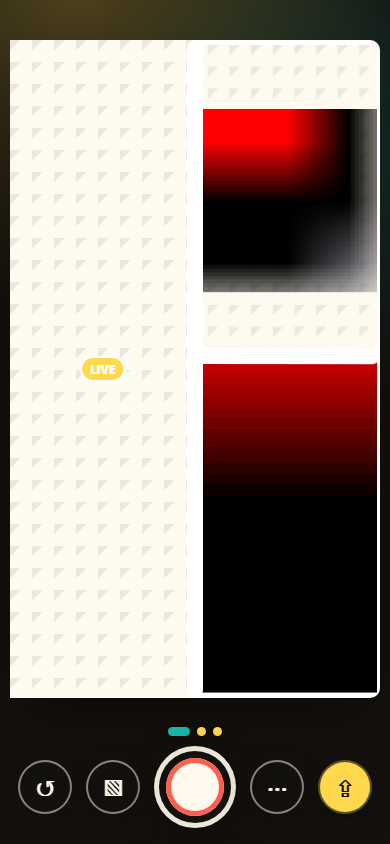
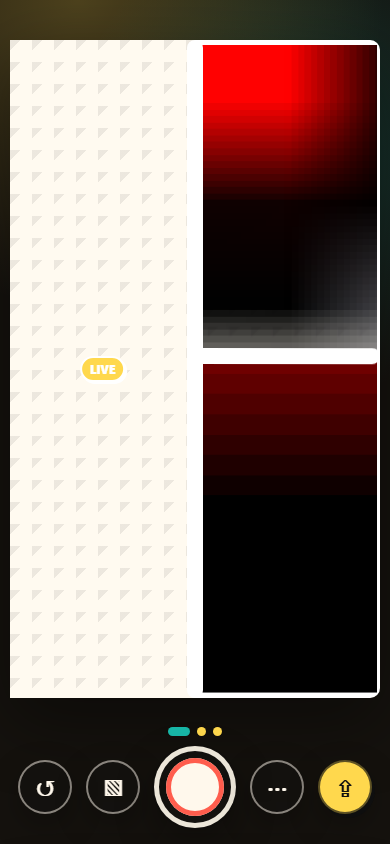
Restore zoomed photo inserts

Changed region(s): [[0.5231, 0.0308, 0.9846, 0.5545]]

diff --git a/src/main.tsx b/src/main.tsx
@@ -322,7 +322,7 @@ const defaultSettings: Settings = {
   borderColor: '#ffffff',
   caption: '',
   captionColor: '#111111',
-  fit: 'contain',
+  fit: 'cover',
 }
 
 const CUSTOM_LAYOUT_KEY = 'instacomic.customLayouts.v1'